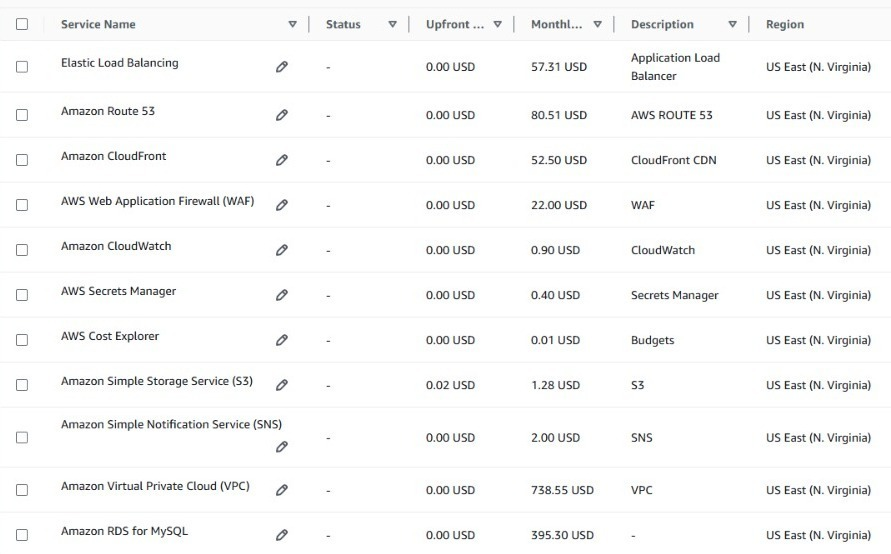
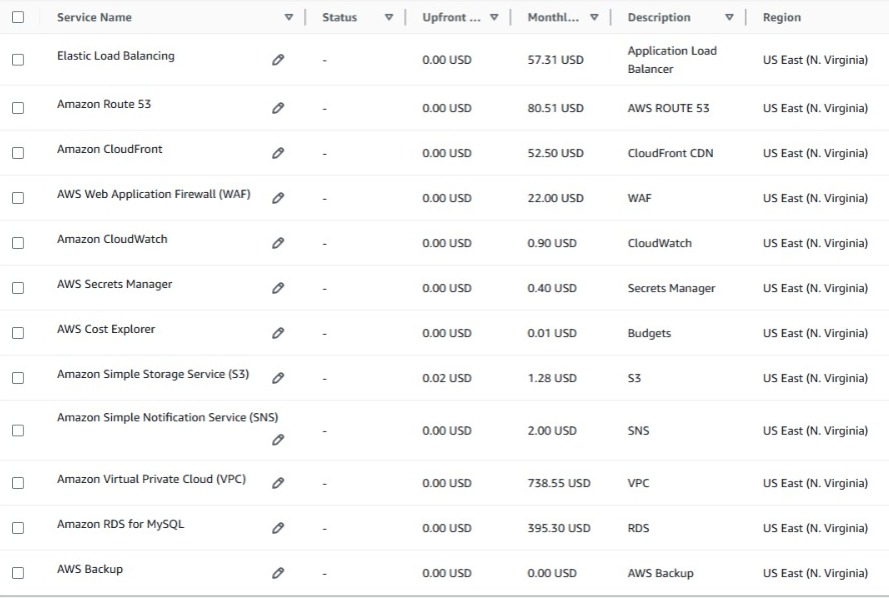
[Edit] Some gramatic errors

diff --git a/README.md b/README.md
@@ -265,6 +265,7 @@ A arquitetura utiliza dos seguintes itens para garantir a segurança:
 
 - **Subnetes Privadas**: Limitando o acesso indevido, criando assim uma zona restrita.
 - **AWS Secrets Manager**: A centralização das variáveis de ambientes ou credenciais reduz o risco de vazamentos ou uso indevido, além de fazer rotação automática de segredos como senhas de bancos de dados, chaves de API e tokens de acesso seguindo.
+- **AWS Organization**: A criação de contas específicas para os devs e pessoal que trabalhará na infra, junto ao controle de acesso e permissões do IAM, adiciona uma camada a mais de segurança, ao criar ambientes isolados, e portanto não afetam o ambiente de produção.
 - **IAM roles/policies**: Utilização de lista de permissões para grupos de usuários e controle de acesso a segredos, limitando o acesso indevido ao ambiente.
 - **AWS WAF**: Através da utilização do WAF, Firewall, para criar regras para bloquear padrões de tráfego malicioso como Injeção de SQL, Cross-Site Scripting, Força Bruta ou até mesmo Bots Maliciosos. O WAF também envia métricas para o CloudWatch, permitindo o monitoramento do tráfego e assim ajudando na identificação de padrões de ataques.
 - **AWS CloudFront**: Integrado ao WAF, ele protege aplicações distribuídas globalmente.
@@ -274,6 +275,8 @@ A arquitetura utiliza dos seguintes itens para garantir a segurança:
 
 ### `Como será realizado o processo de Backup?`
 
+- **AWS Backup**: O AWS Backup será utilizado para fazer o Backup centralizado.
+- **S3 Bucket**: O S3 Bucket será usado para fazer o backup da aplicação estática.
 - **Terraform**: Como o Terraform faz esse processo de automatização da montagem do cluster EKS, em caso de qualquer perda do ambiente, ele fará esse processo de reconstrução do cluster.
 - **RDS**: O RDS sendo configurado de forma MULTI-AZ, garante uma alta disponibilidade, além de fornecer backups automáticos e snapshots manuais.
 
